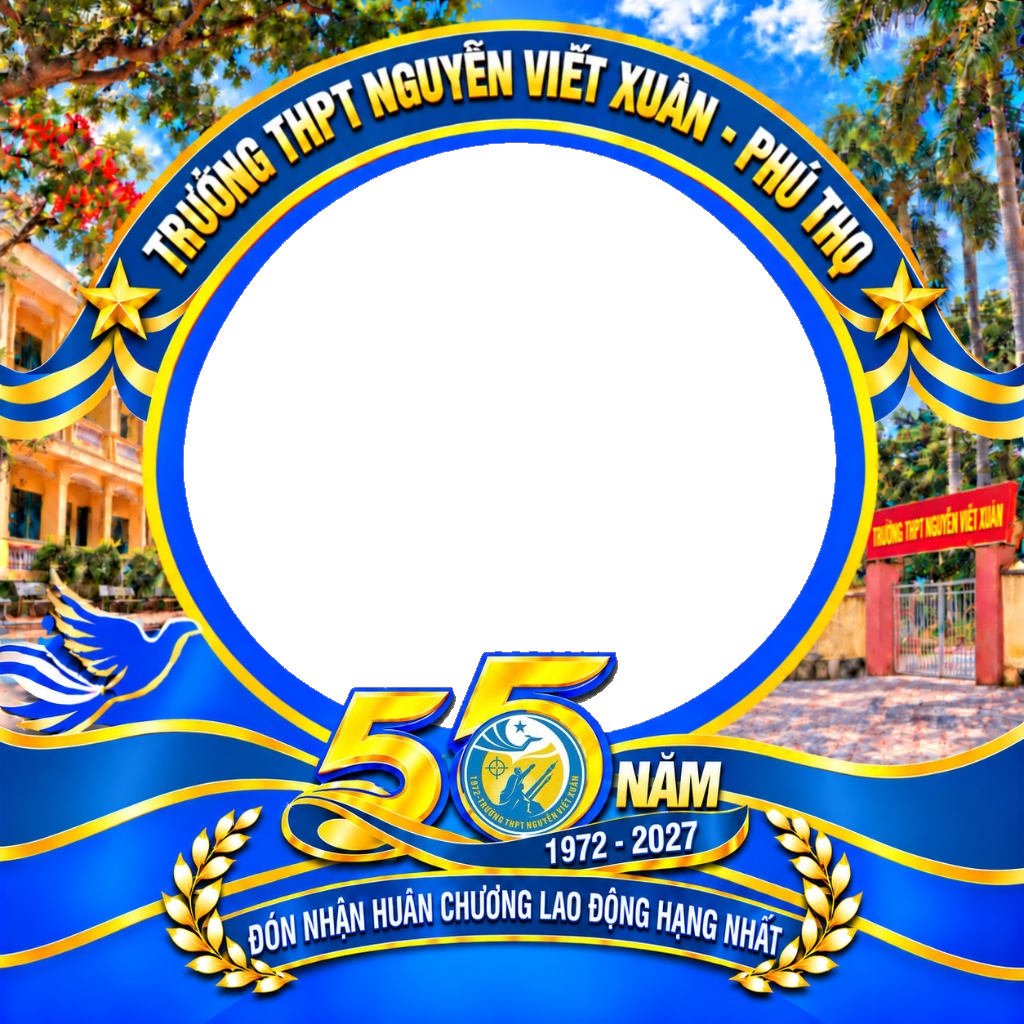
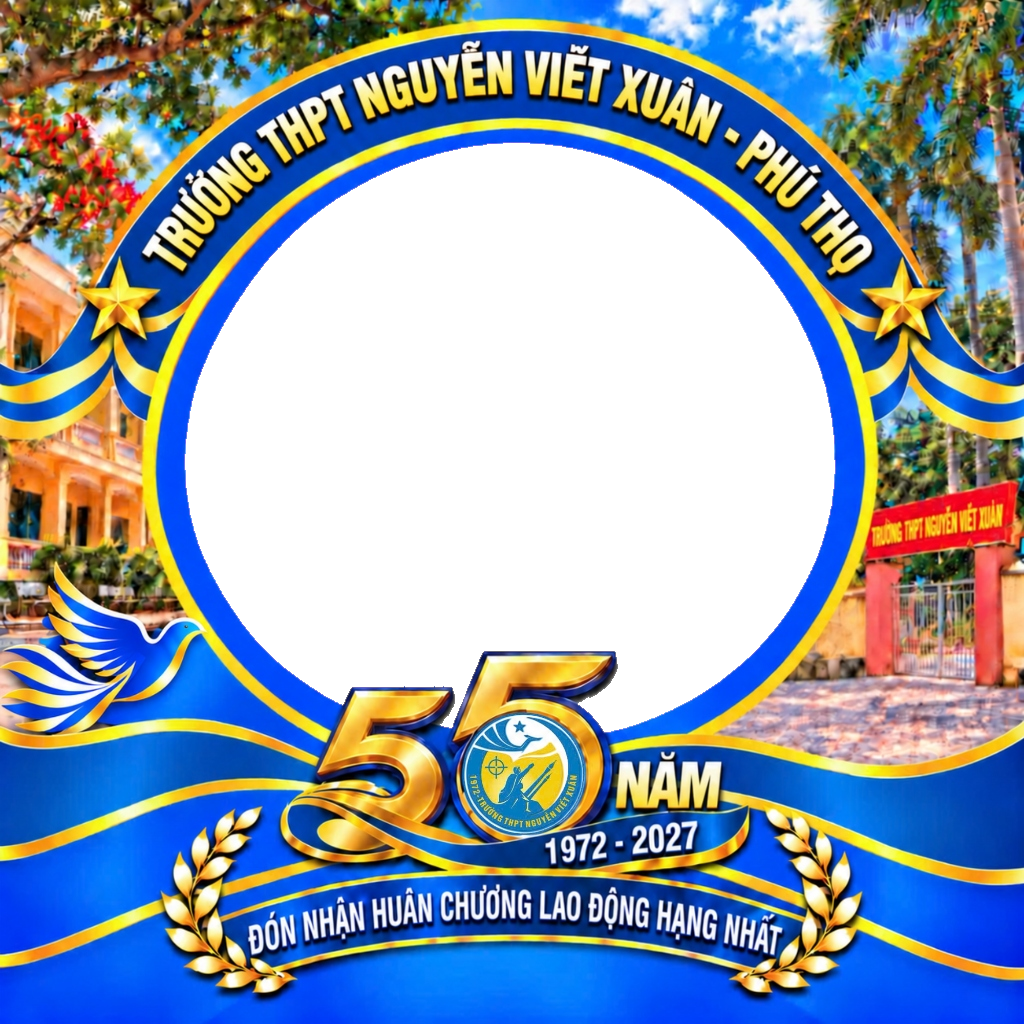
feat: update main frame to latest refined v6 design

Changed region(s): [[0.0, 0.0, 1.0, 1.0], [0.75, 0.5938, 0.8125, 0.6875], [0.0, 0.9375, 0.0312, 0.9688]]

diff --git a/src/app.js b/src/app.js
@@ -234,7 +234,7 @@ function initFrame() {
   img.onerror = () => {
     setStatus('Không thể tải khung ảnh mẫu. Vui lòng tải lại trang.', 'error');
   };
-  img.src = './assets/frame.png?v=5';
+  img.src = './assets/frame.png?v=6';
 }
 
 uploadBtn.addEventListener('click', () => photoInput.click());
